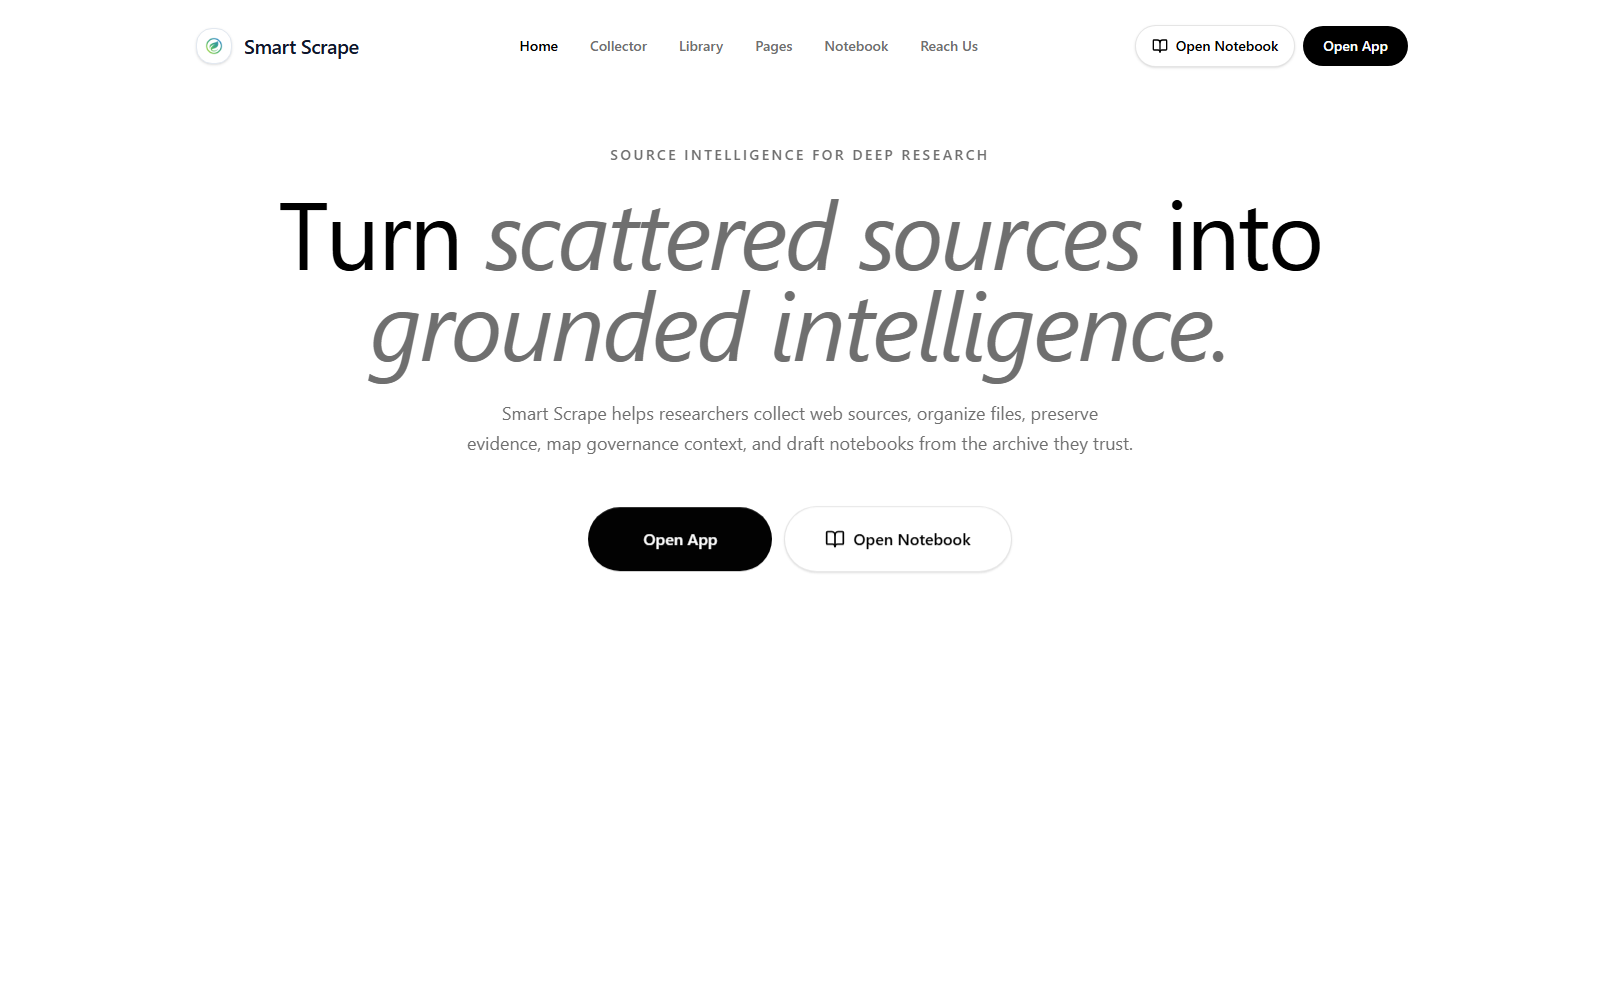
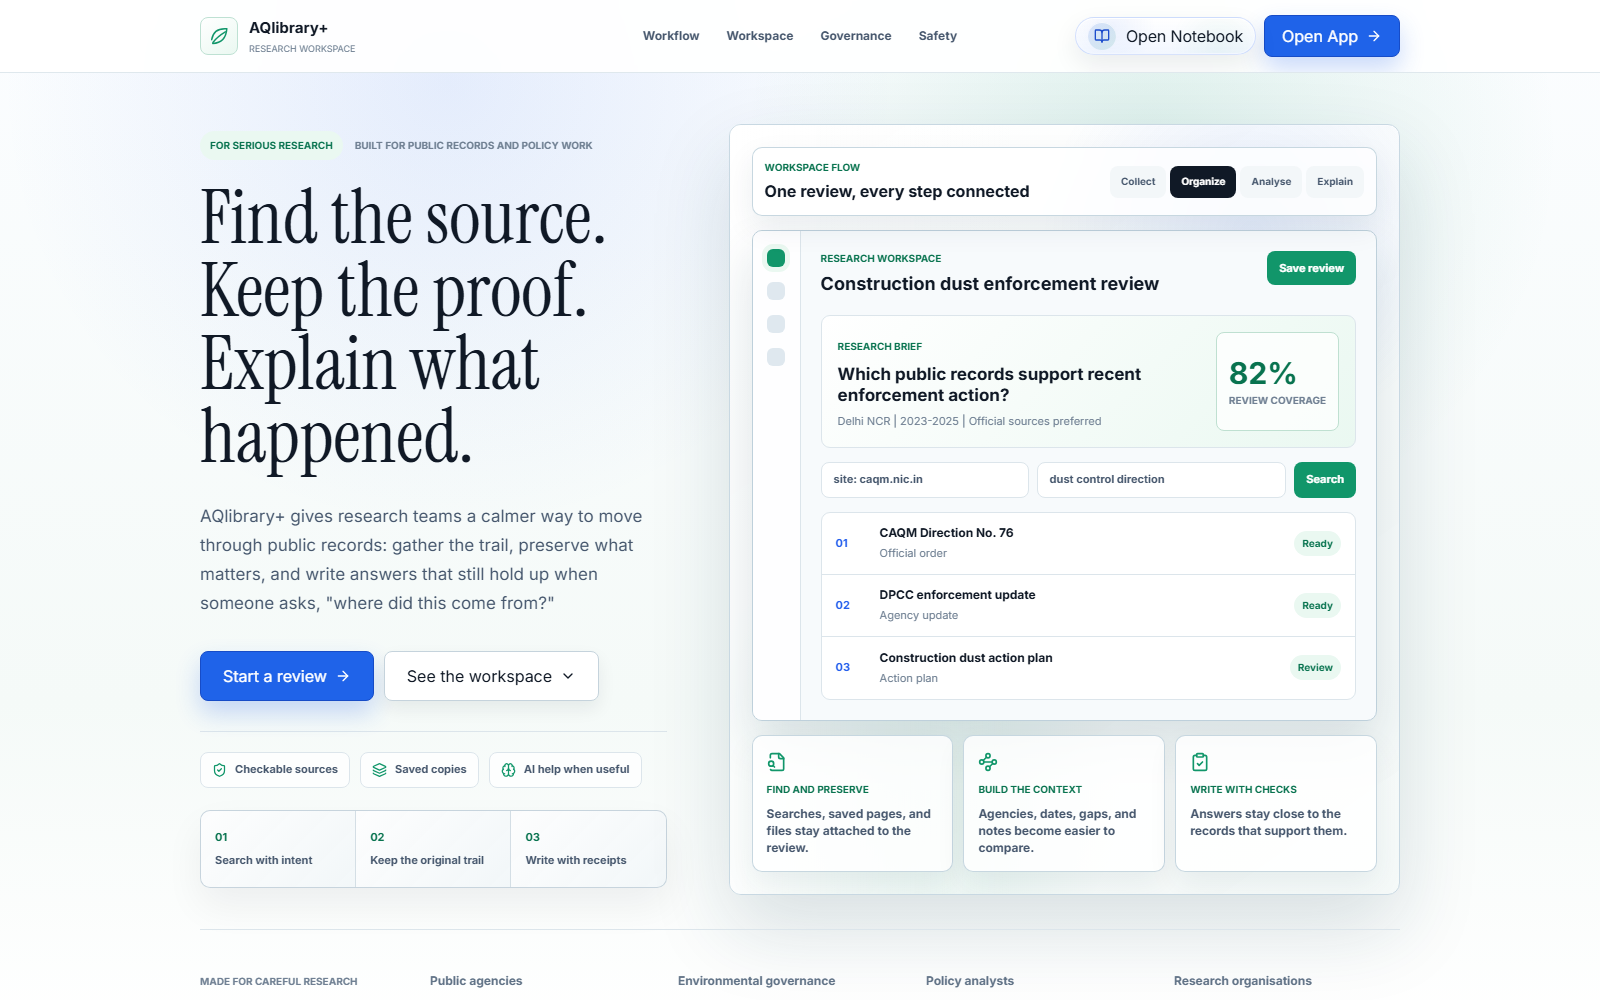
small fixes

diff --git a/README.md b/README.md
@@ -1,6 +1,6 @@
 # AQlibrary+
 
-[![CI](https://github.com/bsvsrakhilesh/AQlibrary-plus/actions/workflows/ci.yml/badge.svg)](https://github.com/bsvsrakhilesh/AQlibrary-plus/actions/workflows/ci.yml)
+[![CI](https://github.com/bsvsrakhilesh/AQlibraryplus/actions/workflows/ci.yml/badge.svg)](https://github.com/bsvsrakhilesh/AQlibraryplus/actions/workflows/ci.yml)
 
 AQlibrary+ is a research platform for collecting, organizing, preserving, and analyzing web-based and personal documents used in governance and policy work. It helps users build searchable, citation-backed evidence collections for reviewing past decisions, preparing new analyses, and preserving institutional knowledge.
 